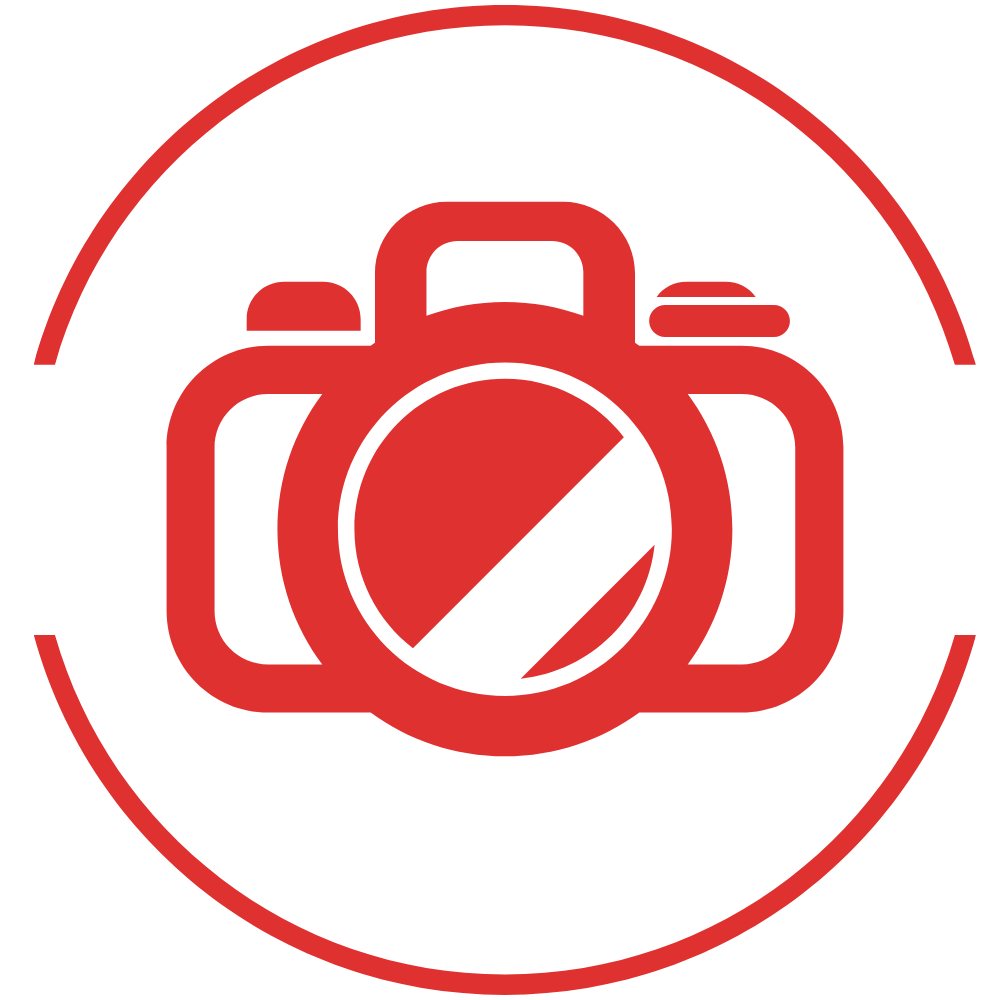
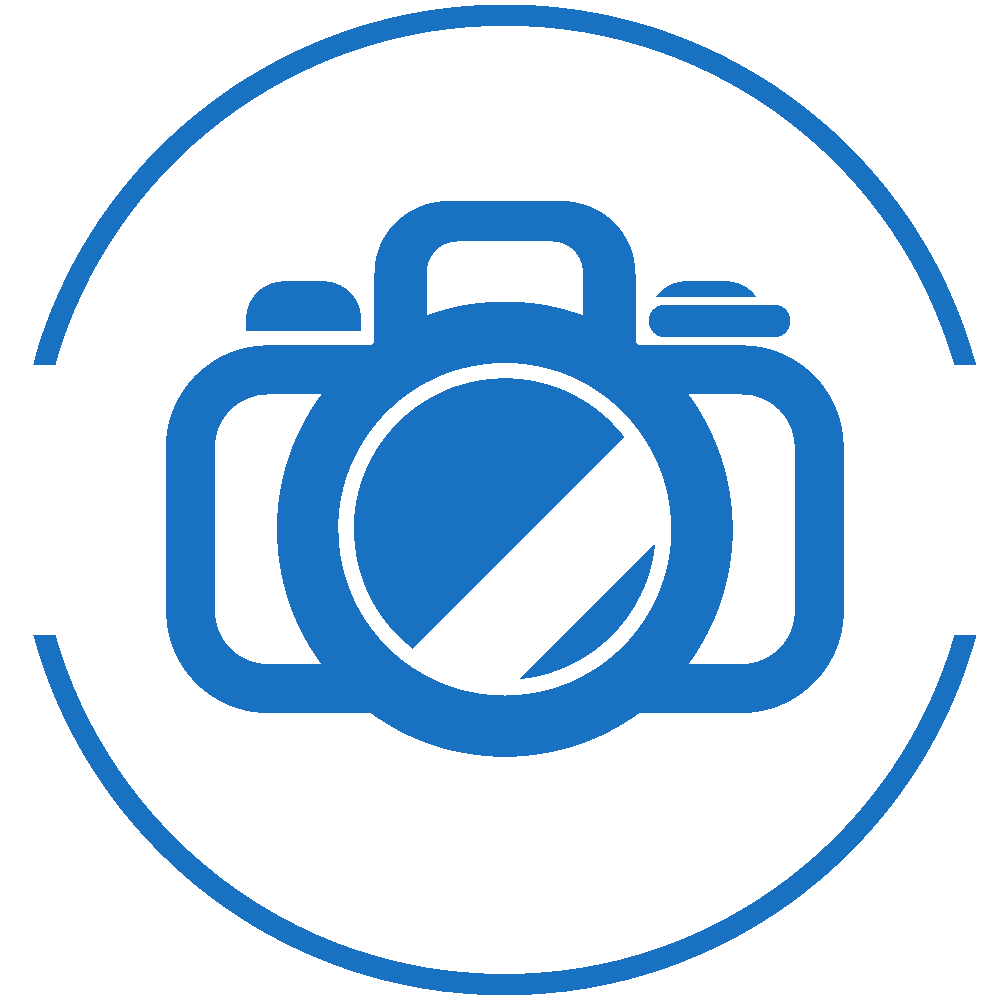
Color Scheme Update

Changed region(s): [[0.155, 0.186, 0.868, 0.775], [0.031, 0.62, 0.992, 1.0], [0.031, 0.0, 0.992, 0.372]]

diff --git a/components/Footer.tsx b/components/Footer.tsx
@@ -57,12 +57,11 @@ function Footer() {
                         width={25}
                         height={25}
                         alt="Picture of the Reactive Shots Logo"
-
                     />
                     <Text
                         size="xl"
                         weight={700}
-                        color="red"
+                        color="blue"
                         sx={{
                             fontFamily: "Carter One",
                         }}
@@ -85,7 +84,7 @@ function Footer() {
                     <Text
                         size="sm"
                         weight={500}
-                        color="red"
+                        color="blue"
                         sx={{
                             fontFamily: "Lato",
                         }}
@@ -94,14 +93,14 @@ function Footer() {
                     </Text>
                 </Group>
                 <Group spacing={5} position="center">
-                    <Text size="sm" weight={500} color="red">
+                    <Text size="sm" weight={500} color="blue">
                         Built with {` `}
                     </Text>
                     <Group spacing={5}>
                         <ActionIcon
                             component="a"
                             size="sm"
-                            color="red"
+                            color="blue"
                             style={{ marginTop: -2 }}
                             href="https://nextjs.org/"
                         >
@@ -111,7 +110,7 @@ function Footer() {
                         <ActionIcon
                             component="a"
                             size="sm"
-                            color="red"
+                            color="blue"
                             style={{ marginTop: -2 }}
                             href="https://mantine.dev/"
                         >
@@ -121,20 +120,20 @@ function Footer() {
                         <ActionIcon
                             component="a"
                             size="sm"
-                            color="red"
+                            color="blue"
                             style={{ marginTop: -2 }}
                             href="https://www.framer.com/motion"
                         >
                             <IconBrandFramer />
                         </ActionIcon>
 
-                        <Text size="sm" weight={500} color="red">
+                        <Text size="sm" weight={500} color="blue">
                             {` `} by {` `}
                         </Text>
                         <Text
                             size="sm"
                             weight={500}
-                            color="red"
+                            color="blue"
                             onClick={() => {
                                 window.open("https://geethg.com")
                             }}

diff --git a/components/Gallery.tsx b/components/Gallery.tsx
@@ -21,7 +21,7 @@ function Gallery() {
 
     return (
         <Container size="lg" id="gallery" mb="xl" pt={50}>
-            <Tabs defaultValue="portrait" color="red">
+            <Tabs defaultValue="portrait" color="blue">
                 <Tabs.List position="center">
                     <Tabs.Tab value="event">
                         <motion.div
@@ -33,7 +33,7 @@ function Gallery() {
                             <Text
                                 size="xl"
                                 weight={700}
-                                color="red"
+                                color="blue"
                                 sx={{
                                     fontFamily: "Carter One",
                                 }}
@@ -54,7 +54,7 @@ function Gallery() {
                             <Text
                                 size="xl"
                                 weight={700}
-                                color="red"
+                                color="blue"
                                 sx={{
                                     fontFamily: "Carter One",
                                 }}
@@ -74,7 +74,7 @@ function Gallery() {
                             <Text
                                 size="xl"
                                 weight={700}
-                                color="red"
+                                color="blue"
                                 sx={{
                                     fontFamily: "Carter One",
                                 }}

diff --git a/components/Navbar.tsx b/components/Navbar.tsx
@@ -104,11 +104,11 @@ const useStyles = createStyles((theme) => ({
         "&, &:hover": {
             backgroundColor: theme.fn.variant({
                 variant: "light",
-                color: "red",
+                color: "blue",
             }).background,
             color: theme.fn.variant({
                 variant: "light",
-                color: "red",
+                color: "blue",
             }).color,
         },
     },
@@ -206,7 +206,7 @@ function Navbar({ links }: NavbarProps) {
                     <Text
                         size="xl"
                         weight={700}
-                        color="red"
+                        color="blue"
                         sx={{
                             fontFamily: "Carter One",
                         }}
@@ -234,13 +234,13 @@ function Navbar({ links }: NavbarProps) {
                         //open in new tab
                         target="_blank"
                         rel="noopener noreferrer"
-                        color={dark ? "gray" : "red"}
+                        color={dark ? "gray" : "blue"}
                     >
                         <IconBrandInstagram size={18} stroke={1.5} />
                     </ActionIcon>
                     <ActionIcon
                         size="lg"
-                        color="red"
+                        color="blue"
                         onClick={() => toggleColorScheme()}
                         title="Toggle color scheme"
                     >

diff --git a/components/Contact.tsx b/components/Contact.tsx
@@ -118,7 +118,7 @@ function Contact() {
             showNotification({
                 title: "Error",
                 message: "Please fill out all fields",
-                color: "red",
+                color: "blue",
                 radius: "md",
             })
 
@@ -128,7 +128,7 @@ function Contact() {
             showNotification({
                 title: "Sending",
                 message: "Please wait...",
-                color: "red",
+                color: "blue",
                 radius: "md",
             })
             await axios.post(
@@ -176,7 +176,7 @@ function Contact() {
                         transform="uppercase"
                         align="center"
                         style={{ fontFamily: "Carter One, sans-serif" }}
-                        color="red"
+                        color="blue"
                         mb="md"
                     >
                         Contact
@@ -192,7 +192,7 @@ function Contact() {
                         <LoadingOverlay
                             visible={isSubmitting}
                             overlayBlur={2}
-                            loaderProps={{ color: "red", variant: "dots" }}
+                            loaderProps={{ color: "blue", variant: "dots" }}
                         />
                         <Paper shadow="md" radius="lg">
                             <div className={classes.wrapper}>

diff --git a/pages/_app.tsx b/pages/_app.tsx
@@ -26,7 +26,7 @@ export default function App(props: AppProps & { colorScheme: ColorScheme }) {
             maxAge: 60 * 60 * 24 * 30,
         })
     }
-      useHotkeys([["mod+J", () => toggleColorScheme()]])
+    useHotkeys([["mod+J", () => toggleColorScheme()]])
 
     return (
         <div
@@ -50,9 +50,9 @@ export default function App(props: AppProps & { colorScheme: ColorScheme }) {
                     theme={{
                         /** Put your mantine theme override here */
                         fontFamily: "Lato, sans-serif",
-                        headings: { fontFamily: "Cater One, sans-serif" },
+                        headings: { fontFamily: "Carter One, serif" },
                         colorScheme: colorScheme,
-                        primaryColor: "red",
+                        primaryColor: "blue",
                         //dsiable scrollbars
                     }}
                 >
@@ -67,5 +67,5 @@ export default function App(props: AppProps & { colorScheme: ColorScheme }) {
 }
 App.getInitialProps = ({ ctx }: { ctx: GetServerSidePropsContext }) => ({
     // get color scheme from cookie
-    colorScheme: getCookie("mantine-color-scheme", ctx) || "dark",
+    colorScheme: getCookie("mantine-color-scheme", ctx) || "light",
 })

diff --git a/CustomFonts.tsx b/CustomFonts.tsx
@@ -28,6 +28,14 @@ export function CustomFonts() {
                         fontStyle: "normal",
                     },
                 },
+                {
+                    "@font-face": {
+                        fontFamily: "Carter One",
+                        src: `url('/fonts/Carter One-Regular.otf') format('truetype')`,
+                        fontWeight: 400,
+                        fontStyle: "normal",
+                    },
+                },
                 //disable scrollbars
                 {
                     "::-webkit-scrollbar": {
